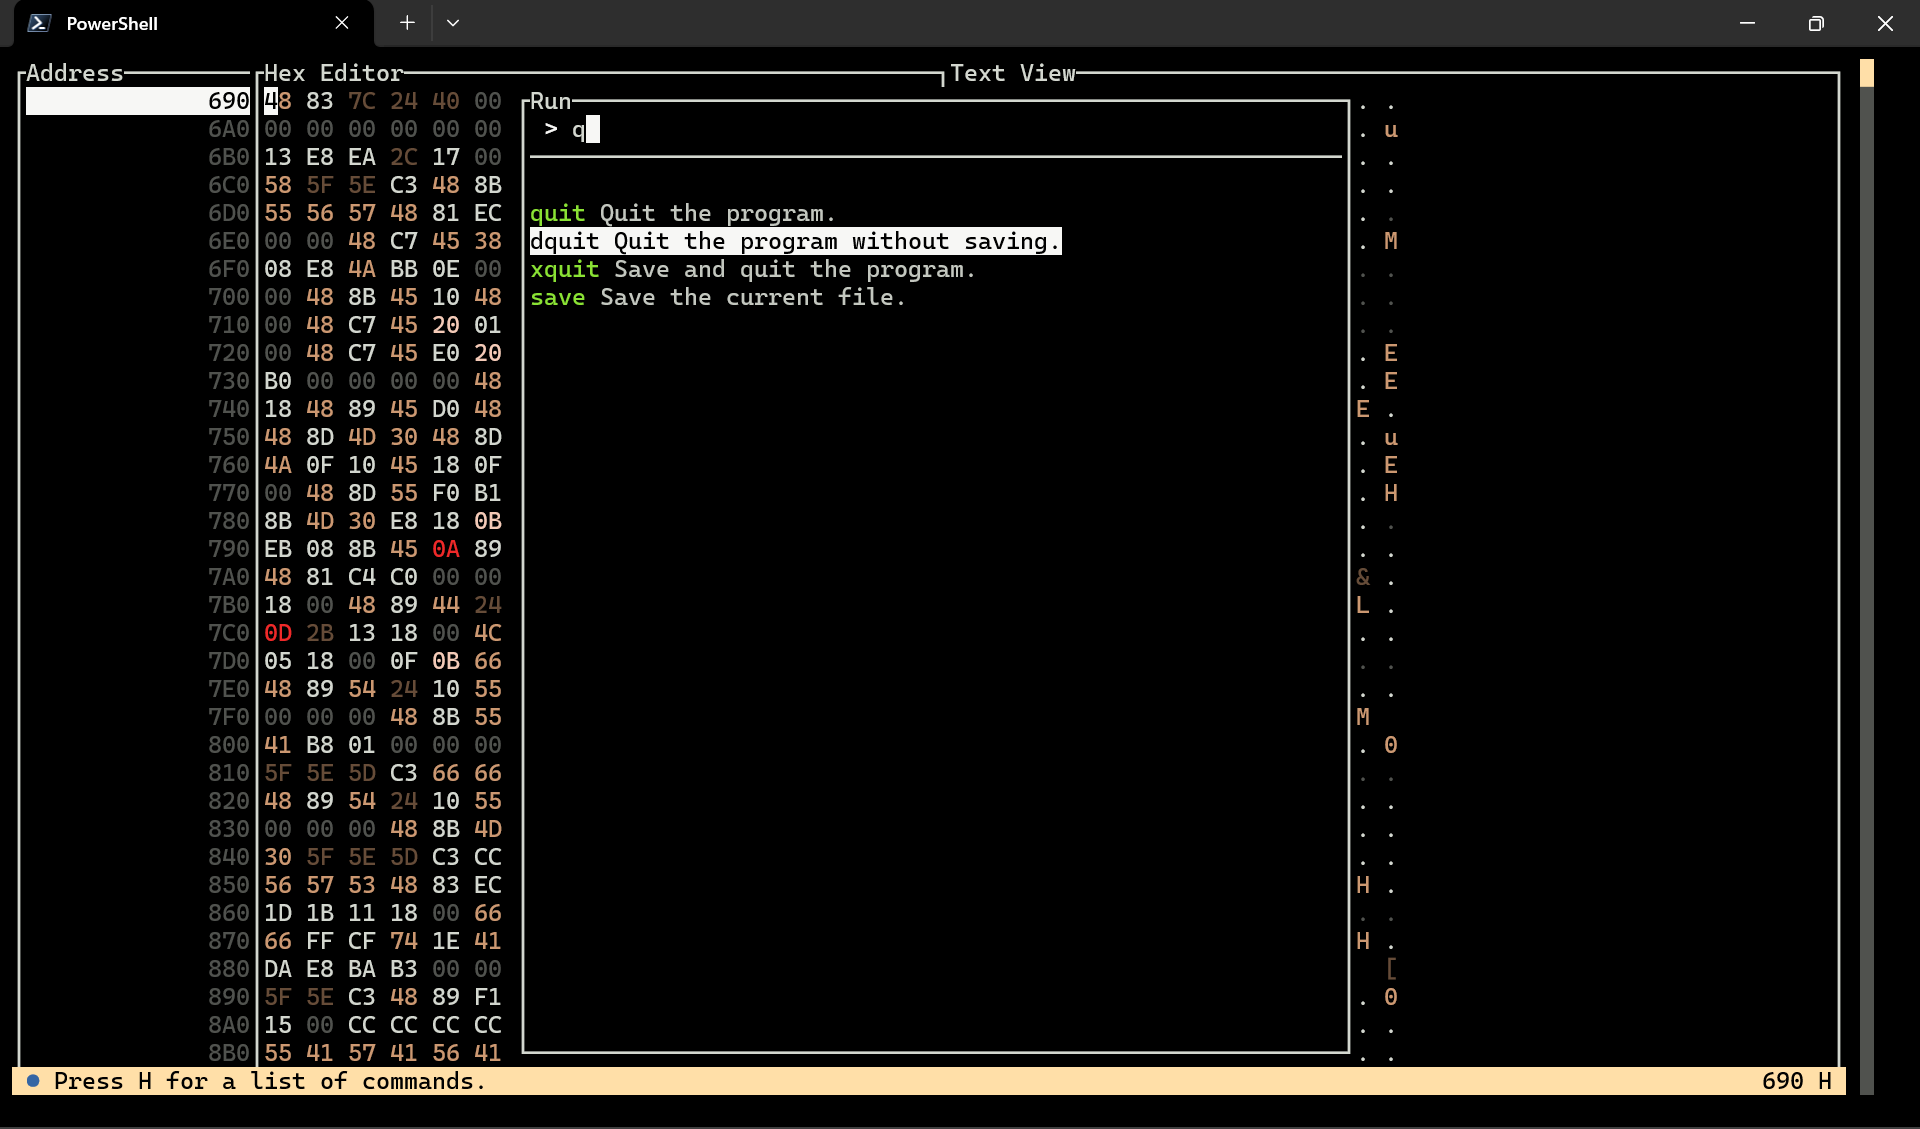
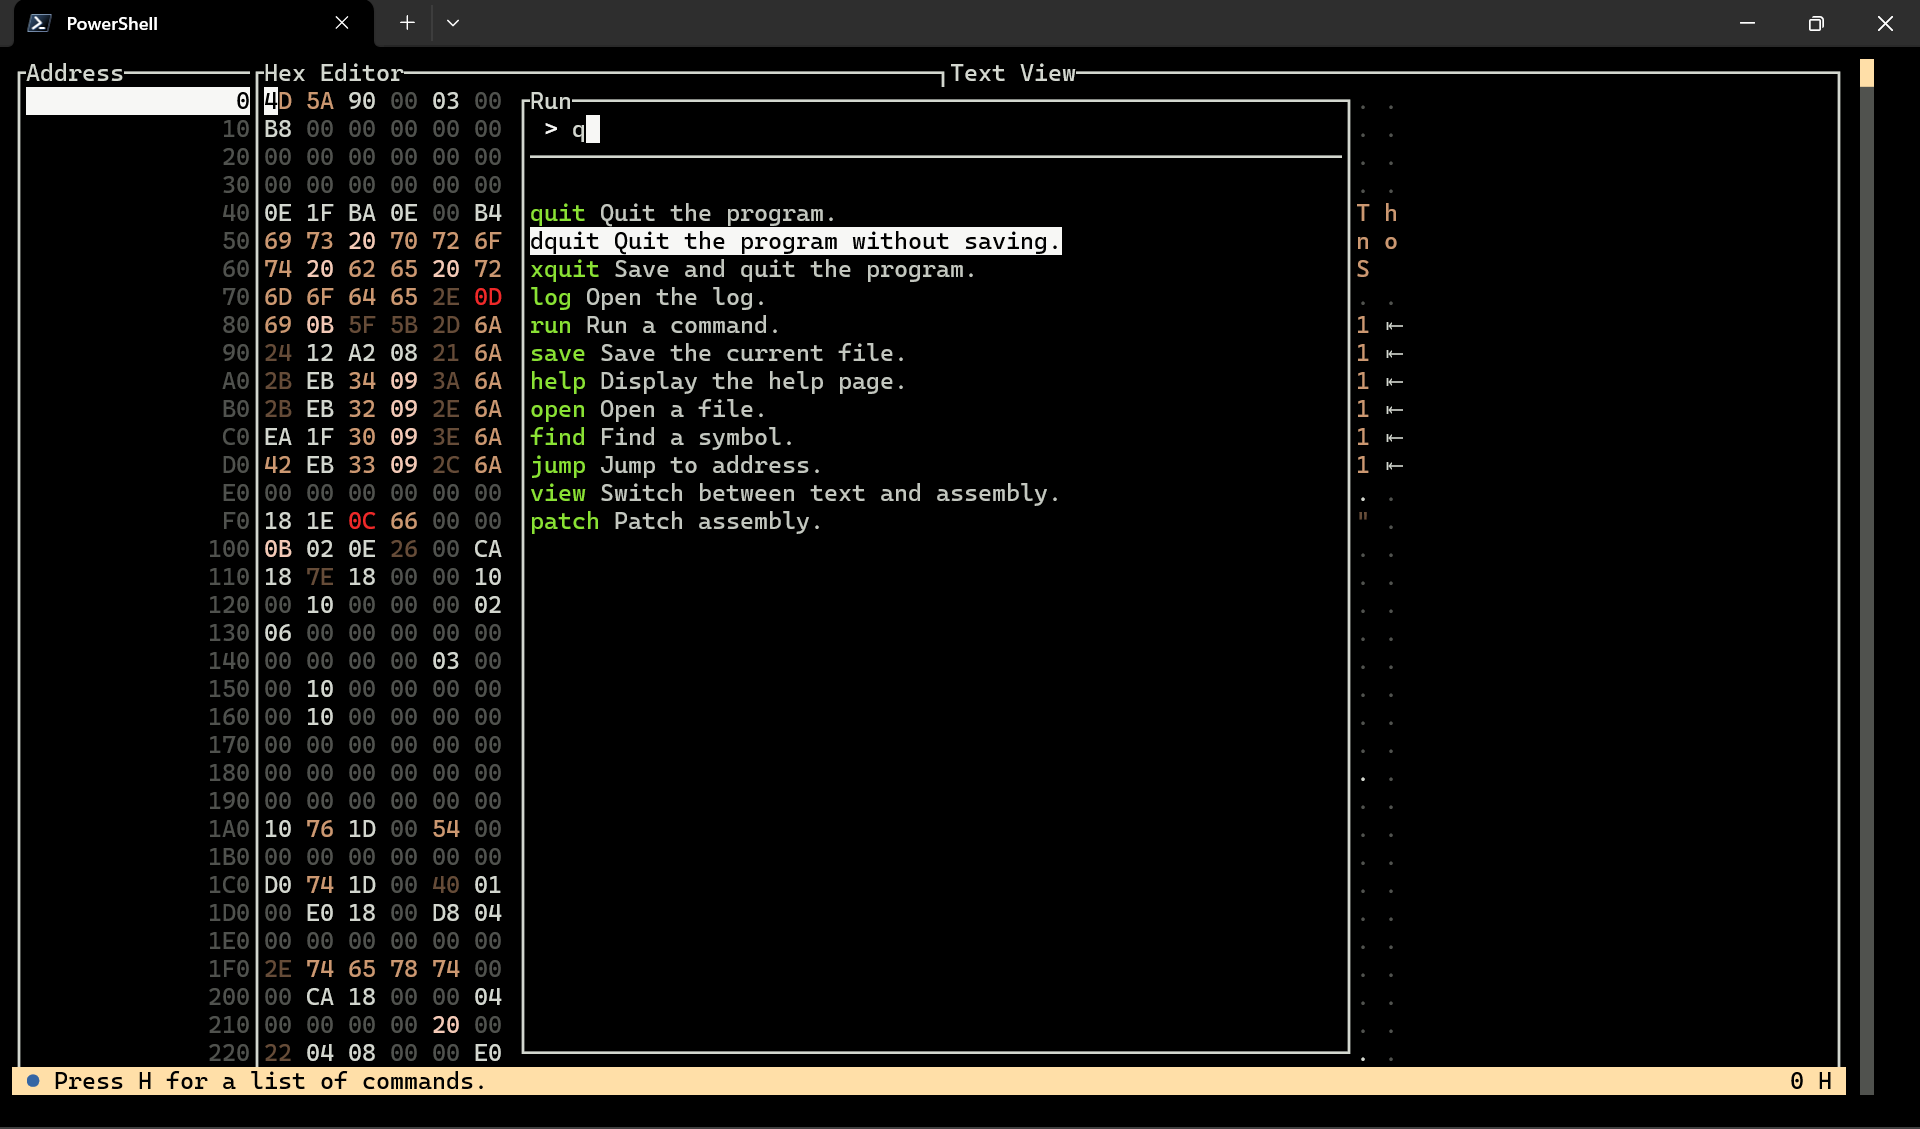
new commands added

Changed region(s): [[0.0938, 0.093, 0.5312, 0.961], [0.1562, 0.062, 0.25, 0.093], [0.7188, 0.31, 0.75, 0.341]]

diff --git a/src/app/run_command.rs b/src/app/run_command.rs
@@ -11,6 +11,15 @@ pub enum Command
     QuitWithoutSave,
     QuitWithSave,
     Save,
+    Help,
+    Open,
+    Log,
+    Run,
+    FindSymbol,
+    Patch,
+    JumpToAddress,
+    SwitchView,
+
     Empty,
     Unknown,
 }
@@ -24,6 +33,14 @@ impl Command
             "dquit",
             "xquit",
             "save",
+            "help",
+            "open",
+            "log",
+            "run",
+            "find",
+            "patch",
+            "jump",
+            "view",
         ]
     }
     pub fn from_string(command: &str) -> Command
@@ -34,6 +51,14 @@ impl Command
             "dquit" => Command::QuitWithoutSave,
             "xquit" => Command::QuitWithSave,
             "save" => Command::Save,
+            "help" => Command::Help,
+            "open" => Command::Open,
+            "log" => Command::Log,
+            "run" => Command::Run,
+            "find" => Command::FindSymbol,
+            "patch" => Command::Patch,
+            "jump" => Command::JumpToAddress,
+            "view" => Command::SwitchView,
             "" => Command::Empty,
             _ => Command::Unknown,
         }
@@ -52,6 +77,15 @@ impl Command
             Command::QuitWithoutSave => Line::from(vec![Span::styled("dquit", s0), Span::styled(" Quit the program without saving.", s1)]),
             Command::QuitWithSave => Line::from(vec![Span::styled("xquit", s0), Span::styled(" Save and quit the program.", s1)]),
             Command::Save => Line::from(vec![Span::styled("save", s0), Span::styled(" Save the current file.", s1)]),
+            Command::Help => Line::from(vec![Span::styled("help", s0), Span::styled(" Display the help page.", s1)]),
+            Command::Open => Line::from(vec![Span::styled("open", s0), Span::styled(" Open a file.", s1)]),
+            Command::Log => Line::from(vec![Span::styled("log", s0), Span::styled(" Open the log.", s1)]),
+            Command::Run => Line::from(vec![Span::styled("run", s0), Span::styled(" Run a command.", s1)]),
+            Command::FindSymbol => Line::from(vec![Span::styled("find", s0), Span::styled(" Find a symbol.", s1)]),
+            Command::Patch => Line::from(vec![Span::styled("patch", s0), Span::styled(" Patch assembly.", s1)]),
+            Command::JumpToAddress => Line::from(vec![Span::styled("jump", s0), Span::styled(" Jump to address.", s1)]),
+            Command::SwitchView => Line::from(vec![Span::styled("view", s0), Span::styled(" Switch between text and assembly.", s1)]),
+
             Command::Empty => Line::from(vec![Span::styled("", s0), Span::styled("", s1)]),
             Command::Unknown => Line::from(vec![Span::styled("Unknown command", s0), Span::styled(" Unknown command", s1)]),
         }.left_aligned()
@@ -70,6 +104,7 @@ impl <'a> App<'a>
     {
         let command_opt = self.find_commands(command).into_iter().skip(scroll).next();
         let command_enum = command_opt.expect("Scroll out of bounds for run_command.");
+        self.popup = None;
         match command_enum
         {
             Command::Quit => {
@@ -87,6 +122,31 @@ impl <'a> App<'a>
                     self.save_data()?;
                 }
             }
+            Command::Help => {
+                self.request_popup_help();
+            }
+            Command::Open => {
+                self.request_open()?;
+            }
+            Command::Log => {
+                self.request_popup_log();
+            }
+            Command::Run => {
+                self.request_popup_run();
+            }
+            Command::FindSymbol => {
+                self.request_popup_find_symbol();
+            }
+            Command::Patch => {
+                self.request_popup_patch();
+            }
+            Command::JumpToAddress => {
+                self.request_popup_jump();
+            }
+            Command::SwitchView => {
+                self.request_view_change();
+            }
+
             Command::Empty => {}
             Command::Unknown => {
                 self.log(NotificationLevel::Error, &format!("Unknown command: \"{}\"", command));

diff --git a/src/fuzzer/fuzzer_entry.rs b/src/fuzzer/fuzzer_entry.rs
@@ -17,6 +17,11 @@ impl FuzzerEntry
     pub fn score(&self, key: &str) -> isize
     {
         let mut score = 0;
+
+        let char_found_bonus = 10;
+        let key_char_not_found_penalty = -5;
+        let self_char_not_found_penalty = -1;
+
         let mut key_chars = key.chars();
         let self_chars = self.key.chars();
         let mut current_key_char = key_chars.next();
@@ -26,8 +31,12 @@ impl FuzzerEntry
             {
                 if self_char == key_char
                 {
-                    score += 1;
+                    score += char_found_bonus;
                     current_key_char = key_chars.next();
+                }
+                else
+                {
+                    score += self_char_not_found_penalty;
                 }
             }
             else 
@@ -37,7 +46,7 @@ impl FuzzerEntry
         }
         for _ in key_chars
         {
-            score -= 1;
+            score += key_char_not_found_penalty;
         }
         score
     }

diff --git a/src/app/events.rs b/src/app/events.rs
@@ -287,7 +287,7 @@ impl <'a> App<'a>
                             Some(PopupState::Run { command, cursor: _cursor, results: _results, scroll }) =>
                             {
                                 self.run_command(command, *scroll)?;
-                                popup = None;
+                                popup = self.popup.clone();
                             }
                             Some(PopupState::FindSymbol {filter, symbols, cursor: _cursor, scroll}) =>
                             {
